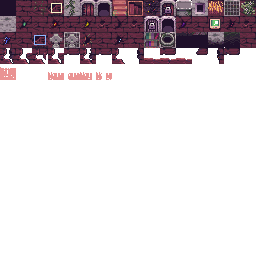
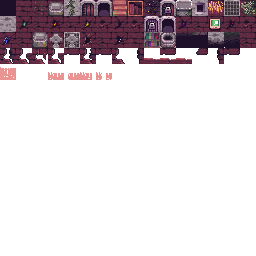
Hero window ui update

Changed region(s): [[0.625, 0.125, 0.6875, 0.1875], [0.1875, 0.0, 0.25, 0.0625], [0.125, 0.125, 0.1875, 0.1875]]

diff --git a/core/src/main/java/com/watabou/pixeldungeon/windows/WndHero.java b/core/src/main/java/com/watabou/pixeldungeon/windows/WndHero.java
@@ -33,29 +33,24 @@ import com.watabou.pixeldungeon.actors.hero.Hero;
 import com.watabou.pixeldungeon.scenes.GameScene;
 import com.watabou.pixeldungeon.scenes.PixelScene;
 import com.watabou.pixeldungeon.ui.BuffIndicator;
+import com.watabou.pixeldungeon.ui.Icons;
 import com.watabou.pixeldungeon.ui.SecondaryButton;
 import com.watabou.pixeldungeon.utils.Utils;
 
 public class WndHero extends WndTabbed {
-	
 	private static final String TXT_STATS	= "Stats";
 	private static final String TXT_BUFFS	= "Buffs";
-	
 	private static final String TXT_EXP		= "Experience";
 	private static final String TXT_STR		= "Strength";
 	private static final String TXT_HEALTH	= "Health";
 	private static final String TXT_GOLD	= "Gold Collected";
 	private static final String TXT_DEPTH	= "Maximum Depth";
-	
 	private static final int WIDTH		= 100;
 	private static final int TAB_WIDTH	= 40;
-	
 	private StatsTab stats;
 	private BuffsTab buffs;
-	
 	private SmartTexture icons;
 	private TextureFilm film;
-	
 	public WndHero() {
 		
 		super();
@@ -91,15 +86,16 @@ public class WndHero extends WndTabbed {
 	}
 	
 	private class StatsTab extends Group {
-		
 		private static final String TXT_TITLE		= "Level %d %s";
 		private static final String TXT_CATALOGUS	= "Catalogus";
 		private static final String TXT_JOURNAL		= "Journal";
-		
+		Image strengthIcon = Icons.STREGTHMINI.get();
+		Image healthIcon = Icons.HEALTHMINI.get();
+		Image expIcon = Icons.EXPMINI.get();
+		Image goldIcon = Icons.GOLDMINI.get();
+		Image depthIcon = Icons.DEPTHMINI.get();
 		private static final int GAP = 5;
-		
 		private float pos;
-		
 		public StatsTab() {
 			
 			Hero hero = Dungeon.hero; 
@@ -117,7 +113,7 @@ public class WndHero extends WndTabbed {
 					GameScene.show( new WndCatalogus() );
 				}
 			};
-			btnCatalogus.setRect( 0, title.y + title.height(), btnCatalogus.reqWidth() + 2, btnCatalogus.reqHeight() + 2 );
+			btnCatalogus.setRect( 0, title.y + title.height() + 4, btnCatalogus.reqWidth() + 2, btnCatalogus.reqHeight() + 2 );
 			add( btnCatalogus );
 			
 			SecondaryButton btnJournal = new SecondaryButton( TXT_JOURNAL ) {
@@ -133,36 +129,39 @@ public class WndHero extends WndTabbed {
 			add( btnJournal );
 			
 			pos = btnCatalogus.bottom() + GAP;
-			
-			statSlot( TXT_STR, hero.STR() );
-			statSlot( TXT_HEALTH, hero.HP + "/" + hero.HT );
-			statSlot( TXT_EXP, hero.exp + "/" + hero.maxExp() );
 
-			pos += GAP;
-			
-			statSlot( TXT_GOLD, Statistics.goldCollected );
-			statSlot( TXT_DEPTH, Statistics.deepestFloor );
+			statSlot( TXT_STR, hero.STR(), strengthIcon);
+			statSlot( TXT_HEALTH, hero.HP + "/" + hero.HT, healthIcon);
+			statSlot( TXT_EXP, hero.exp + "/" + hero.maxExp(), expIcon);
+
+			statSlot( TXT_GOLD, Statistics.goldCollected, goldIcon);
+			statSlot( TXT_DEPTH, Statistics.deepestFloor, depthIcon);
 			
 			pos += GAP;
 		}
 		
-		private void statSlot( String label, String value ) {
+		private void statSlot( String label, String value, Image icon) {
+
+			add(icon);
+			icon.y = pos;
+			icon.x = 0;
 			
 			BitmapText txt = PixelScene.createText( label, 8 );
 			txt.y = pos;
+			txt.x = 12;
 			add( txt );
 			
 			txt = PixelScene.createText( value, 8 );
 			txt.measure();
-			txt.x = PixelScene.align( WIDTH * 0.65f );
+			txt.x = PixelScene.align( WIDTH * 0.75f );
 			txt.y = pos;
 			add( txt );
 			
 			pos += GAP + txt.baseLine();
 		}
 		
-		private void statSlot( String label, int value ) {
-			statSlot( label, Integer.toString( value ) );
+		private void statSlot( String label, int value, Image icon) {
+			statSlot( label, Integer.toString( value ), icon);
 		}
 		
 		public float height() {

diff --git a/core/src/main/java/com/watabou/pixeldungeon/ui/Icons.java b/core/src/main/java/com/watabou/pixeldungeon/ui/Icons.java
@@ -50,7 +50,12 @@ public enum Icons {
 	EXIT,
 	CHALLENGE_OFF,
 	CHALLENGE_ON,
-	RESUME;
+	RESUME,
+	STREGTHMINI,
+	HEALTHMINI,
+	EXPMINI,
+	DEPTHMINI,
+	GOLDMINI;
 	
 	public Image get() {
 		return get( this );
@@ -143,6 +148,21 @@ public enum Icons {
 		case RESUME:
 			icon.frame( icon.texture.uvRect( 114, 0, 126, 11 ) );
 			break;
+			case STREGTHMINI:
+				icon.frame( icon.texture.uvRect( 80, 32, 88, 40 ) );
+				break;
+			case HEALTHMINI:
+				icon.frame( icon.texture.uvRect( 88, 32, 96, 40 ) );
+				break;
+			case EXPMINI:
+				icon.frame( icon.texture.uvRect( 96, 32, 104, 40 ) );
+				break;
+			case DEPTHMINI:
+				icon.frame( icon.texture.uvRect( 104, 32, 112, 40 ) );
+				break;
+			case GOLDMINI:
+				icon.frame( icon.texture.uvRect( 112, 32, 120, 40 ) );
+				break;
 		}
 		return icon;
 	}

diff --git a/core/src/main/java/com/watabou/pixeldungeon/windows/WndTabbed.java b/core/src/main/java/com/watabou/pixeldungeon/windows/WndTabbed.java
@@ -176,7 +176,7 @@ public class WndTabbed extends Window {
 			super.layout();
 			
 			btLabel.x = PixelScene.align( x + (width - btLabel.width()) / 2 );
-			btLabel.y = PixelScene.align( y + (height - btLabel.baseLine()) / 2 ) - 1;
+			btLabel.y = PixelScene.align( y + (height - btLabel.baseLine()) / 2 ) +1;
 			if (!selected) {
 				btLabel.y -= 2;
 			}
